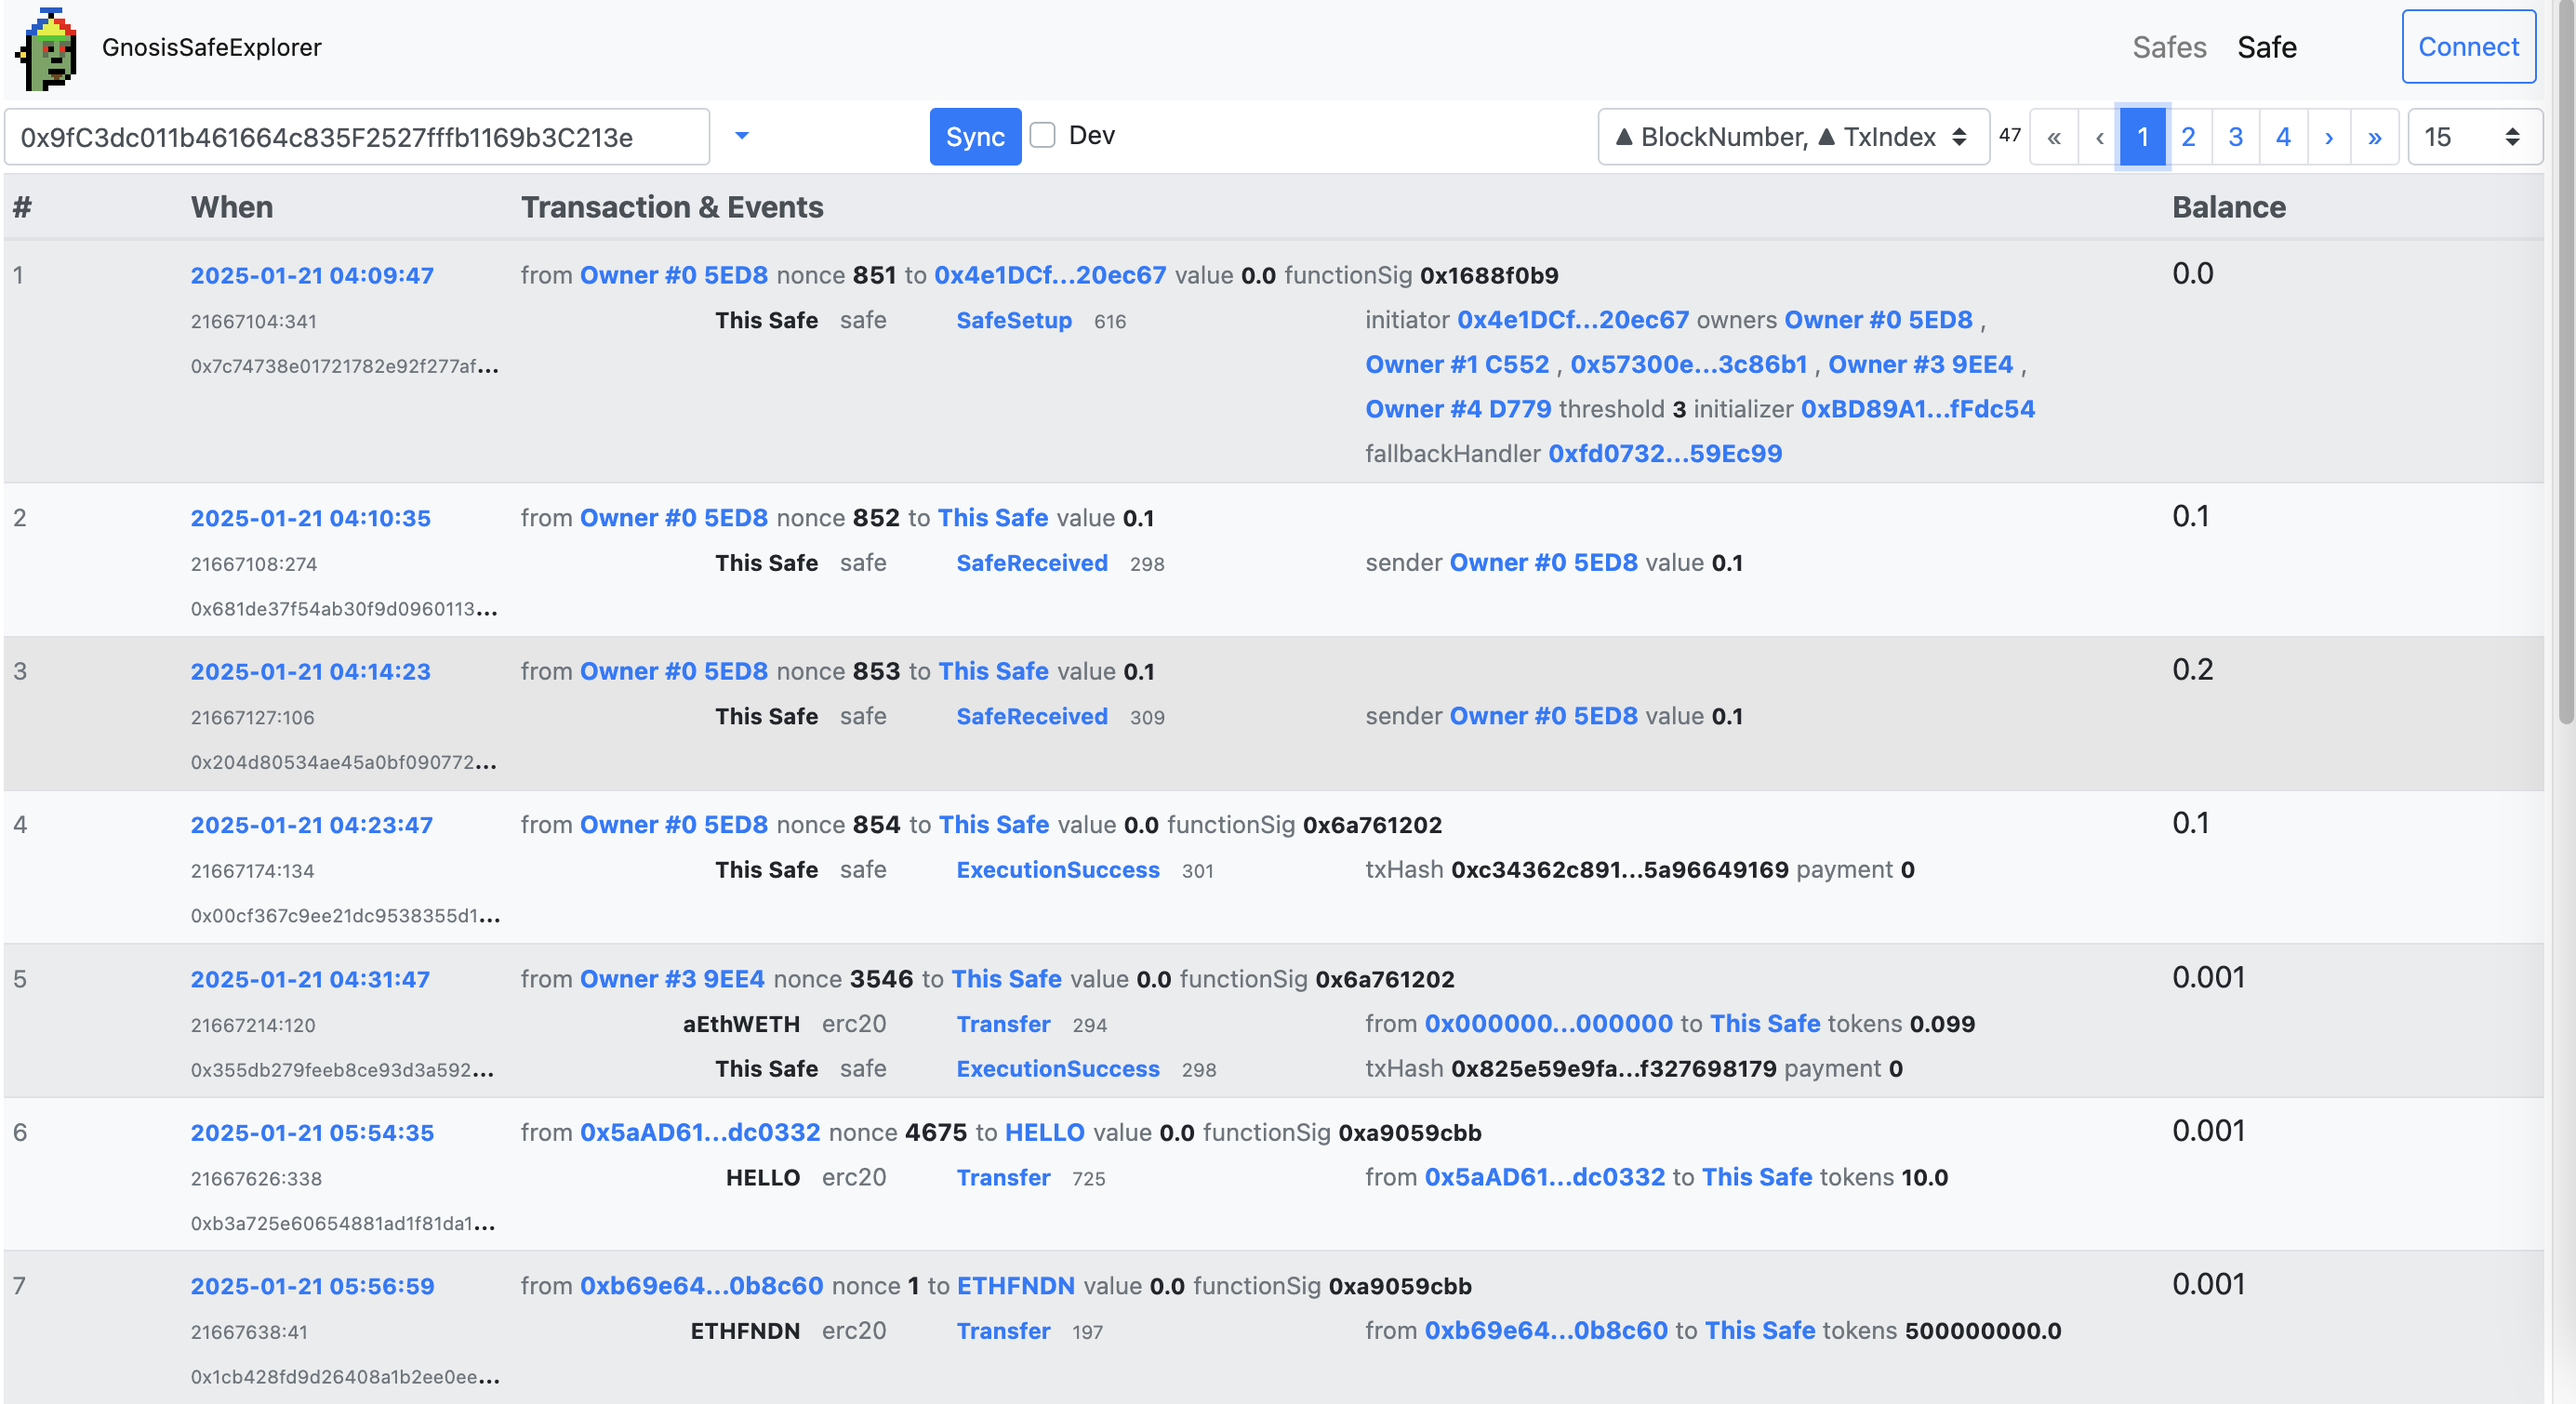
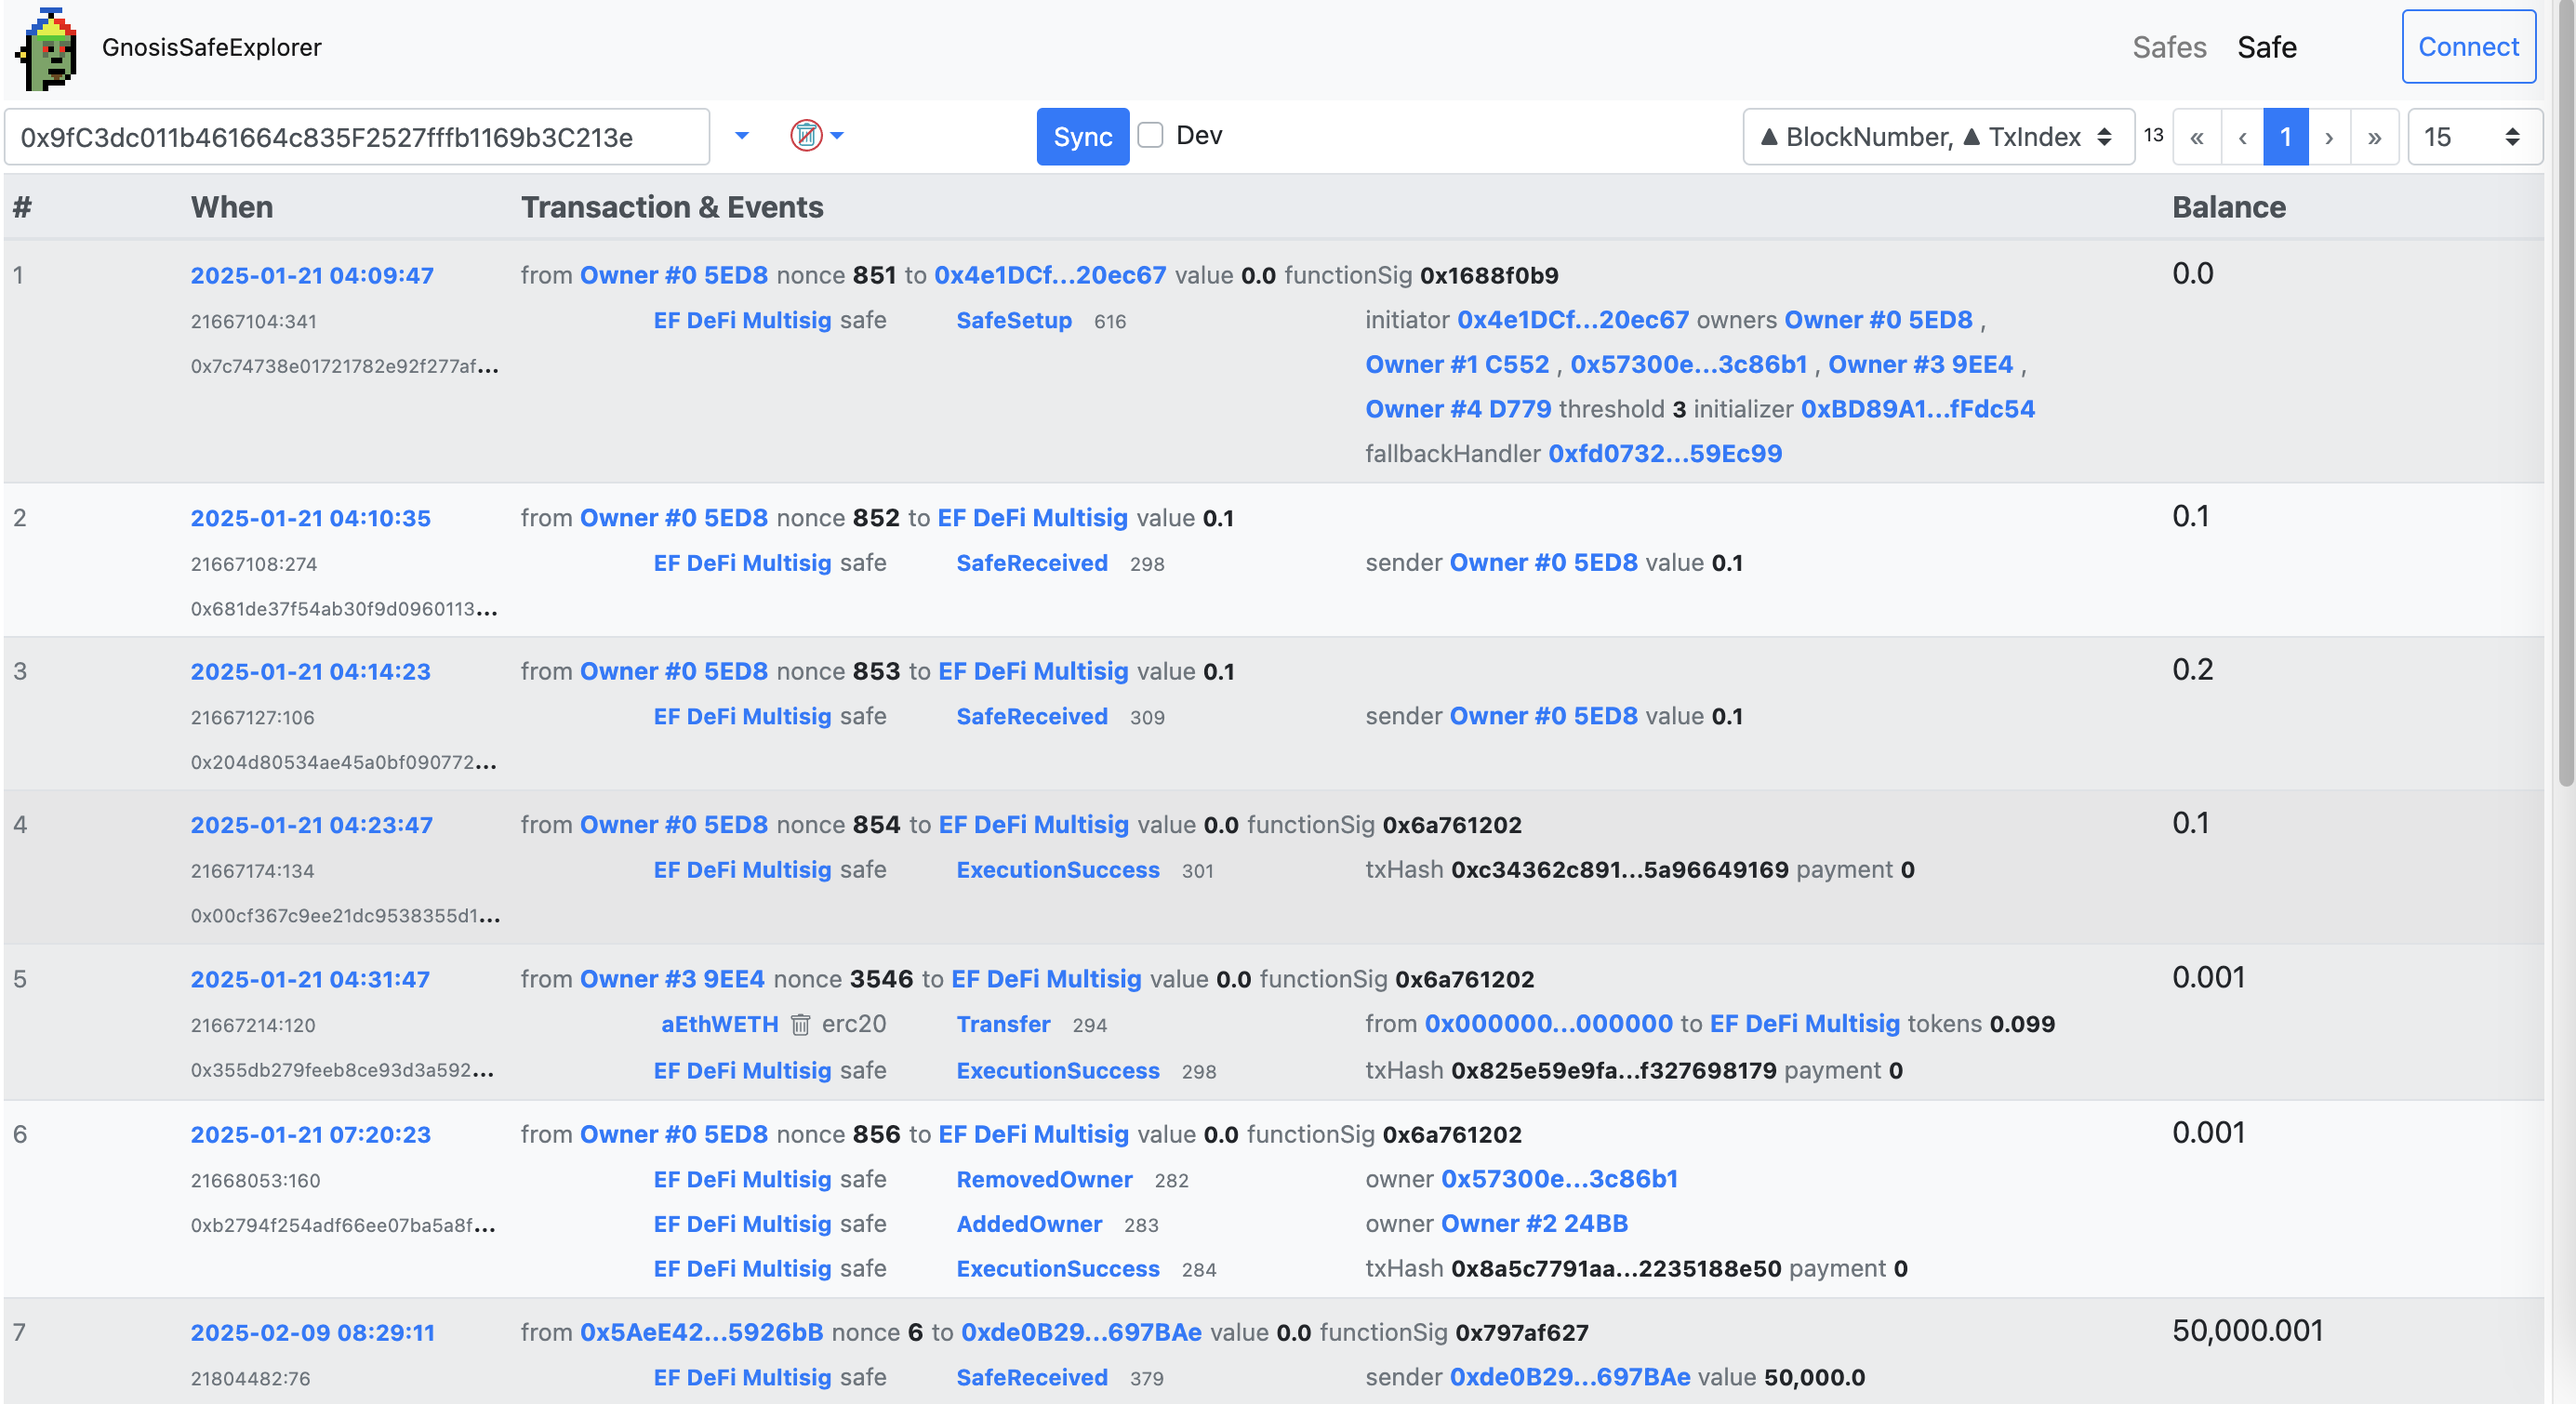
junk filter

diff --git a/docs/index.html b/docs/index.html
@@ -530,7 +530,7 @@
                         {{ safe_lookupName(safeLog.address) }}
                       </b-link>
                     </b-badge>
-                    <b-button size="sm" @click="safe_toggleJunk(safeLog.address);" variant="transparent" v-b-popover.hover.ds500="settings.junk[safeLog.address] ? 'Junk' : 'Not junk'" class="m-0 p-0">
+                    <b-button v-if="safeLog.address != safeData.address" size="sm" @click="safe_toggleJunk(safeLog.address);" variant="transparent" v-b-popover.hover.ds500="settings.junk[safeLog.address] ? 'Junk' : 'Not junk'" class="m-0 p-0">
                       <b-icon :icon="settings.junk[safeLog.address] ? 'trash-fill' : 'trash'" font-scale="0.9" shift-v="+1" :variant="settings.junk[safeLog.address] ? 'primary' : 'secondary'" class="m-0 p-0"></b-icon>
                     </b-button>
                     <font size="-1" class="m-0 p-0 text-muted">
